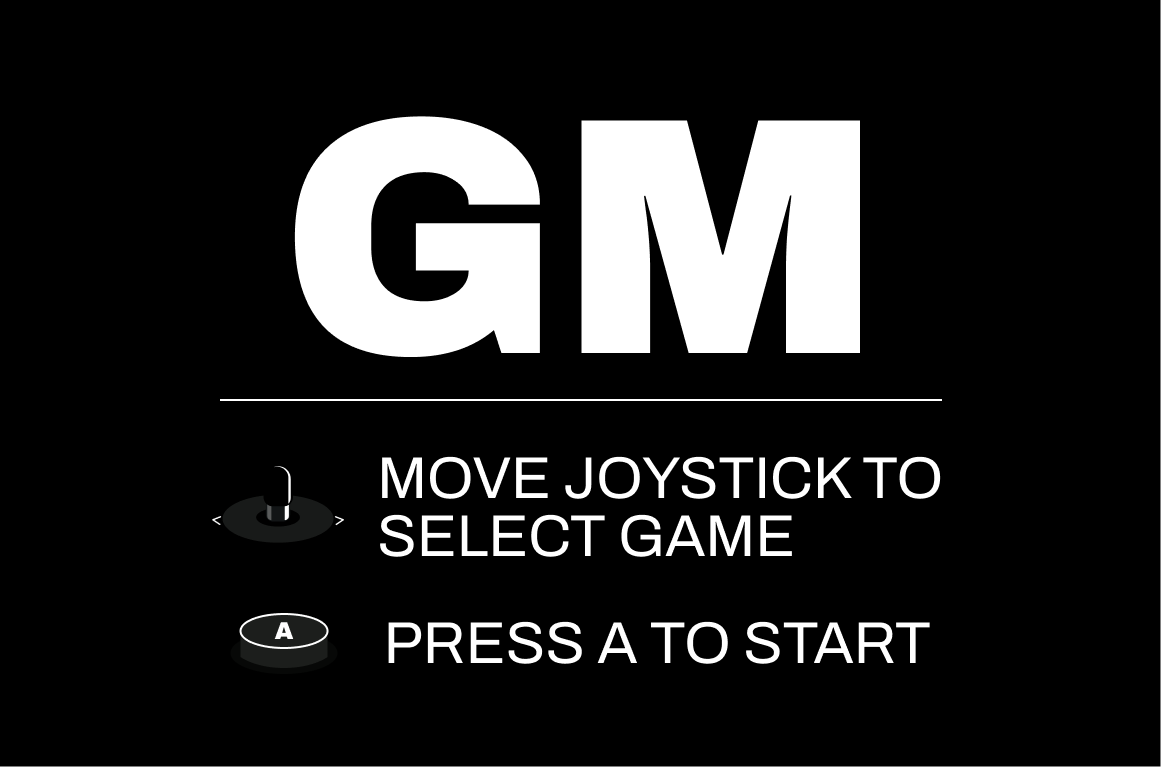
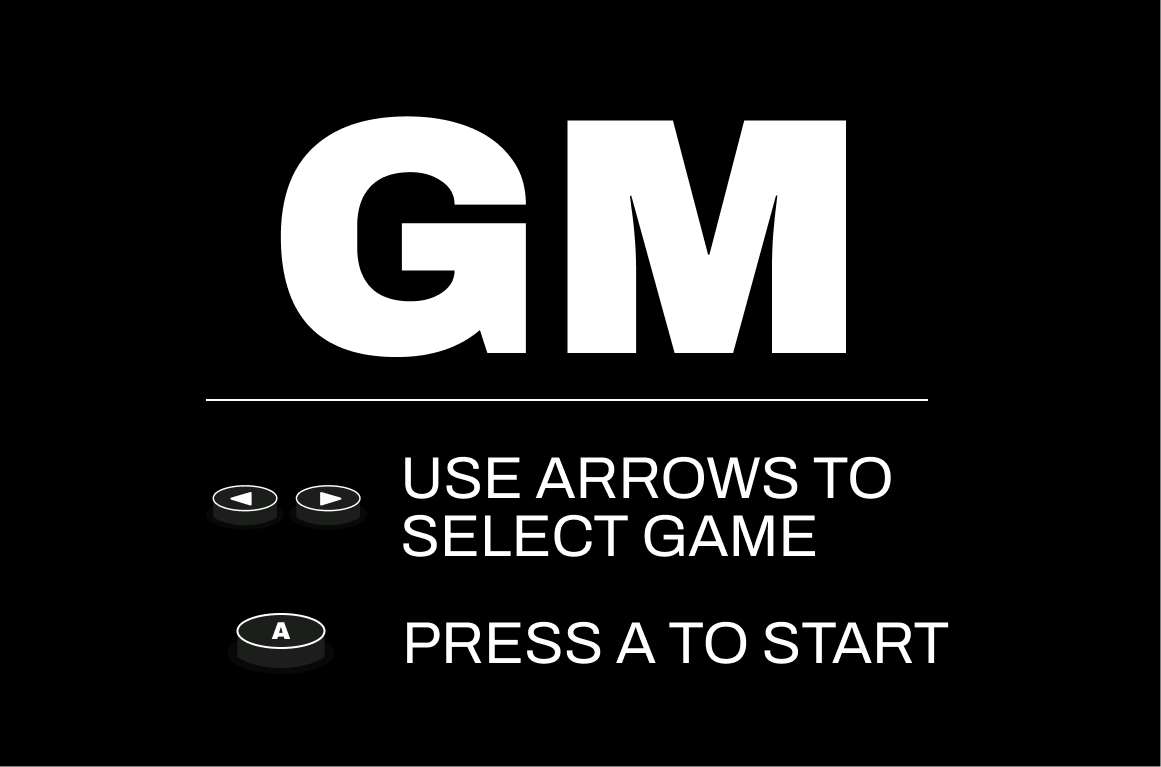
Updated the arrows and the state effects on the buttons

diff --git a/src/components/arcade/index.tsx b/src/components/arcade/index.tsx
@@ -1,45 +1,41 @@
 'use client';
 
 import Image from 'next/image';
-import { JSX, useEffect, useState } from 'react';
+import { useRouter } from 'next/navigation';
+import { JSX, useState } from 'react';
 
 import arcade from '../../../public/img/arcade.png';
-// import { ConnectButton } from './connectButton';
 import Logo from '../logo';
-import { JoystickPosition } from '../types';
 
-import Arrows from './Arrows';
+import Arrow from './Arrow';
+import { games } from './games';
 import GameScreen from './GameScreen';
 import TopButton from './TopButton';
 
 const NUMBER_GAME_SCREENS = 2;
 
 export default function Arcade(): JSX.Element {
-  const [state, setState] = useState<JoystickPosition>('idle');
+  const router = useRouter();
   const [gameScreen, setGameScreen] = useState<number>(0);
 
-  useEffect(() => {
-    if (state === 'right') {
-      if (gameScreen === NUMBER_GAME_SCREENS) {
-        setGameScreen(gameScreen);
-      } else {
-        setGameScreen(gameScreen + 1);
-      }
+  const rightClick = function() {
+    if (gameScreen === NUMBER_GAME_SCREENS) {
+      setGameScreen(gameScreen);
+    } else {
+      setGameScreen(gameScreen + 1);
     }
-    if (state === 'left') {
-      if (gameScreen >= 1) {
-        setGameScreen(gameScreen - 1);
-      }
+  };
+  const leftClick = function() {
+    if (gameScreen >= 1) {
+      setGameScreen(gameScreen - 1);
     }
-
-    if (state !== 'idle') {
-      const timeout = setTimeout(() => {
-        setState('idle');
-      }, 100);
-
-      return () => clearTimeout(timeout);
+  };
+  const selectClick = function() {
+    const game = games[gameScreen - 1];
+    if (game && gameScreen >= 1) {
+      router.push(games[gameScreen - 1]);
     }
-  }, [state]);
+  };
 
   return (
     <div className="flex h-full w-full flex-col items-center">
@@ -56,21 +52,30 @@ export default function Arcade(): JSX.Element {
           gameScreen={gameScreen}
         />
       </div>
-      <div className="flex h-fit w-[65rem] flex-row items-center justify-around">
-        {/* <Joystick
-          className="relative bottom-10"
-          state={state}
-          setState={setState}
-        /> */}
-        <Arrows
-          className="relative h-[3.8rem] basis-1/2"
-          setState={setState}
-        />
+      <div className="flex h-fit w-[65rem] translate-y-3 flex-row items-center justify-around">
+        <div className="flex basis-1/2 flex-row justify-center gap-[2rem]">
+          <TopButton
+            className="relative flex -scale-x-100 flex-row justify-center"
+            onClick={leftClick}
+            gameScreen={gameScreen}
+          >
+            <Arrow />
+          </TopButton>
+          <TopButton
+            className="relative flex flex-row justify-center"
+            onClick={rightClick}
+            gameScreen={gameScreen}
+          >
+            <Arrow />
+          </TopButton>
+        </div>
         <TopButton
-          className="relative basis-1/2 translate-y-[0.5rem] flex flex-row justify-center"
-          text="A"
+          className="relative flex basis-1/2 flex-row justify-center"
           gameScreen={gameScreen}
-        />
+          onClick={selectClick}
+        >
+          <>{'A'}</>
+        </TopButton>
       </div>
     </div>
   );

diff --git a/src/components/arcade/TopButton.tsx b/src/components/arcade/TopButton.tsx
@@ -1,26 +1,26 @@
-'use client';
-
-import { useRouter } from 'next/navigation';
-import { JSX, useEffect, useState } from 'react';
-
-import { ClassnameProps } from '../types';
-
-import { games } from './games';
+import {
+  DOMAttributes,
+  HTMLAttributes,
+  JSX,
+  PropsWithChildren,
+  useEffect,
+  useState,
+} from 'react';
 
 type Props = {
-  text: 'A' | 'B';
   gameScreen: number;
-} & ClassnameProps;
+} & PropsWithChildren &
+  HTMLAttributes<HTMLDivElement> &
+  DOMAttributes<HTMLDivElement>;
 
 type Action = 'click' | 'hover' | 'idle';
 
 export default function TopButton({
-  text,
-  gameScreen,
+  children,
   className,
+  onClick,
 }: Props): JSX.Element {
   const [state, setState] = useState<Action>('idle');
-  const router = useRouter();
   useEffect(() => {
     if (state === 'click') {
       const timeout = setTimeout(() => {
@@ -32,38 +32,35 @@ export default function TopButton({
   }, [state]);
 
   return (
-    <div
-      className={className}
-      onClick={() => {
-        setState('click');
-        const game = games[gameScreen - 1];
-        if (game && gameScreen >= 1) {
-          router.push(games[gameScreen - 1]);
-        }
-      }}
-      onMouseOver={() => setState('hover')}
-      onMouseOut={() => setState('idle')}
-    >
+    <div className={className}>
       <div className="relative h-[5rem] w-[6.5rem] hover:cursor-pointer">
         <div className="flex flex-col items-center">
           <div
             className={`
-              z-10 absolute w-[6rem] rounded-[100%_100%_75%_75%] bg-[#1d1f1d]
-              ${state === 'click' ? 'h-[3rem] top-[1.3rem]' : 'h-[4rem] top-0'}
+              absolute z-10 w-[6rem] rounded-[100%_100%_75%_75%] bg-[#1d1f1d]
+              ${state === 'click' ? 'top-[1.3rem] h-[3rem]' : 'top-0 h-[4rem]'}
             `}
           />
           <div
+            onClick={(event) => {
+              if (onClick) {
+                onClick(event);
+                setState('click');
+              }
+            }}
+            onMouseOver={() => setState('hover')}
+            onMouseOut={() => setState('idle')}
             className={`
-              z-10 relative flex h-[3rem] w-[6rem] flex-col items-center justify-center rounded-[100%] border-[0.2rem] border-solid border-white 
+              relative z-10 flex h-[3rem] w-[6rem] flex-col items-center justify-center rounded-[100%] border-[0.2rem] border-solid border-white 
               ${state === 'hover' ? 'bg-[#444444]' : 'bg-[#1C1E1C]'}
               ${state === 'click' ? 'top-[1.3rem]' : 'top-0'}
             `}
           >
             <div className="relative top-0 whitespace-nowrap font-archivo-black text-[2rem] leading-[normal] tracking-[0] text-white">
-              {text}
+              {children}
             </div>
           </div>
-          <div className="z-0 relative bottom-[1.5rem] h-[3rem] w-[6.5rem] rounded-[100%] bg-[#070807]" />
+          <div className="relative bottom-[1.5rem] z-0 h-[3rem] w-[6.5rem] rounded-[100%] bg-[#070807]" />
         </div>
       </div>
     </div>

diff --git a/src/components/landing/Footer.tsx b/src/components/landing/Footer.tsx
@@ -1,12 +1,11 @@
 import Image from 'next/image';
 import Link from 'next/link';
-import { JSX } from 'react';
+import { HTMLAttributes, JSX } from 'react';
 
 import xLogo from '../../../public/img/landing/x-logo.png';
 import AppLogo from '../AppLogo';
-import { ClassnameProps } from '../types';
 
-export default function Footer({ className }: ClassnameProps): JSX.Element {
+export default function Footer({ className }: HTMLAttributes<HTMLDivElement>): JSX.Element {
   return (
     <footer className={`${className} w-full bg-[#111314]`}>
       <div className="flex h-full flex-row items-center justify-evenly">

diff --git a/src/components/arcade/GameScreen.tsx b/src/components/arcade/GameScreen.tsx
@@ -1,14 +1,13 @@
 import Image from 'next/image';
-import { JSX } from 'react';
+import { HTMLAttributes, JSX } from 'react';
 
 import comingSoon from '../../../public/img/gamescreeen/coming-soon.png';
 import garbageDrop from '../../../public/img/gamescreeen/gdrop.png';
 import instructions from '../../../public/img/gamescreeen/instructions.png';
-import { ClassnameProps } from '../types';
 
 type Props = {
   gameScreen: number;
-} & ClassnameProps;
+} & HTMLAttributes<HTMLDivElement>;
 
 export default function GameScreen({
   gameScreen,

diff --git a/src/components/landing/Background.tsx b/src/components/landing/Background.tsx
@@ -1,11 +1,10 @@
 import Image from 'next/image';
-import { JSX } from 'react';
+import { HTMLAttributes, JSX } from 'react';
 
 import background from '../../../public/img/buildings.png';
 import clouds from '../../../public/img/clouds.png';
-import { ClassnameProps } from '../types';
 
-export default function Background({ className }: ClassnameProps): JSX.Element {
+export default function Background({ className }: HTMLAttributes<HTMLDivElement>): JSX.Element {
   return (
     <div className={className}>
       <div className="pt-[3rem]">

diff --git a/src/components/arcade/Arrow.tsx b/src/components/arcade/Arrow.tsx
@@ -1,11 +1,10 @@
-import { JSX, HTMLAttributes, DOMAttributes } from 'react';
+import { JSX, DOMAttributes } from 'react';
 
 export default function Arrow({
-  className,
   onClick,
-}: HTMLAttributes<HTMLDivElement> & DOMAttributes<HTMLDivElement>): JSX.Element {
+}: DOMAttributes<HTMLDivElement>): JSX.Element {
   return (
-    <div className={`w-[6rem] h-[6rem] ${className ?? ''}`} onClick={onClick}>
+    <div className='h-[2rem] w-[0.9rem]' onClick={onClick}>
       <div className='triangle-button'></div>
     </div>
   );

diff --git a/src/components/AppLogo.tsx b/src/components/AppLogo.tsx
@@ -1,11 +1,11 @@
 import Image from 'next/image';
 import Link from 'next/link';
+import { HTMLAttributes } from 'react';
 
 import logo from '../../public/img/logo.png';
 
-import { ClassnameProps } from './types';
 
-export default function AppLogo({ className }: ClassnameProps) {
+export default function AppLogo({ className }: HTMLAttributes<HTMLDivElement>) {
   return (
     <Link href="/">
       <Image alt="logo" src={logo} className={`${className} object-cover`} />

diff --git a/src/components/logo/index.tsx b/src/components/logo/index.tsx
@@ -1,9 +1,8 @@
-import { JSX } from 'react';
+import { HTMLAttributes, JSX } from 'react';
 
 import AppLogo from '../AppLogo';
-import { ClassnameProps } from '../types';
 
-export default function Logo({ className }: ClassnameProps): JSX.Element {
+export default function Logo({ className }: HTMLAttributes<HTMLDivElement>): JSX.Element {
   return (
     <div className={className}>
       <div className="relative inline-flex items-center justify-center gap-[0.625rem]">

diff --git a/src/app/global.css b/src/app/global.css
@@ -78,10 +78,10 @@
     position: absolute;
     top: 0;
     left: 0;
-    border-width: 0 3rem 5rem 3rem;
+    border-width: 0 0.9rem 2rem 0.9rem;
     rotate: 90deg;
     border-style: solid;
-    border-color: transparent transparent #121516 transparent;
+    border-color: transparent transparent #ffffff transparent;
   }
 
   html {
